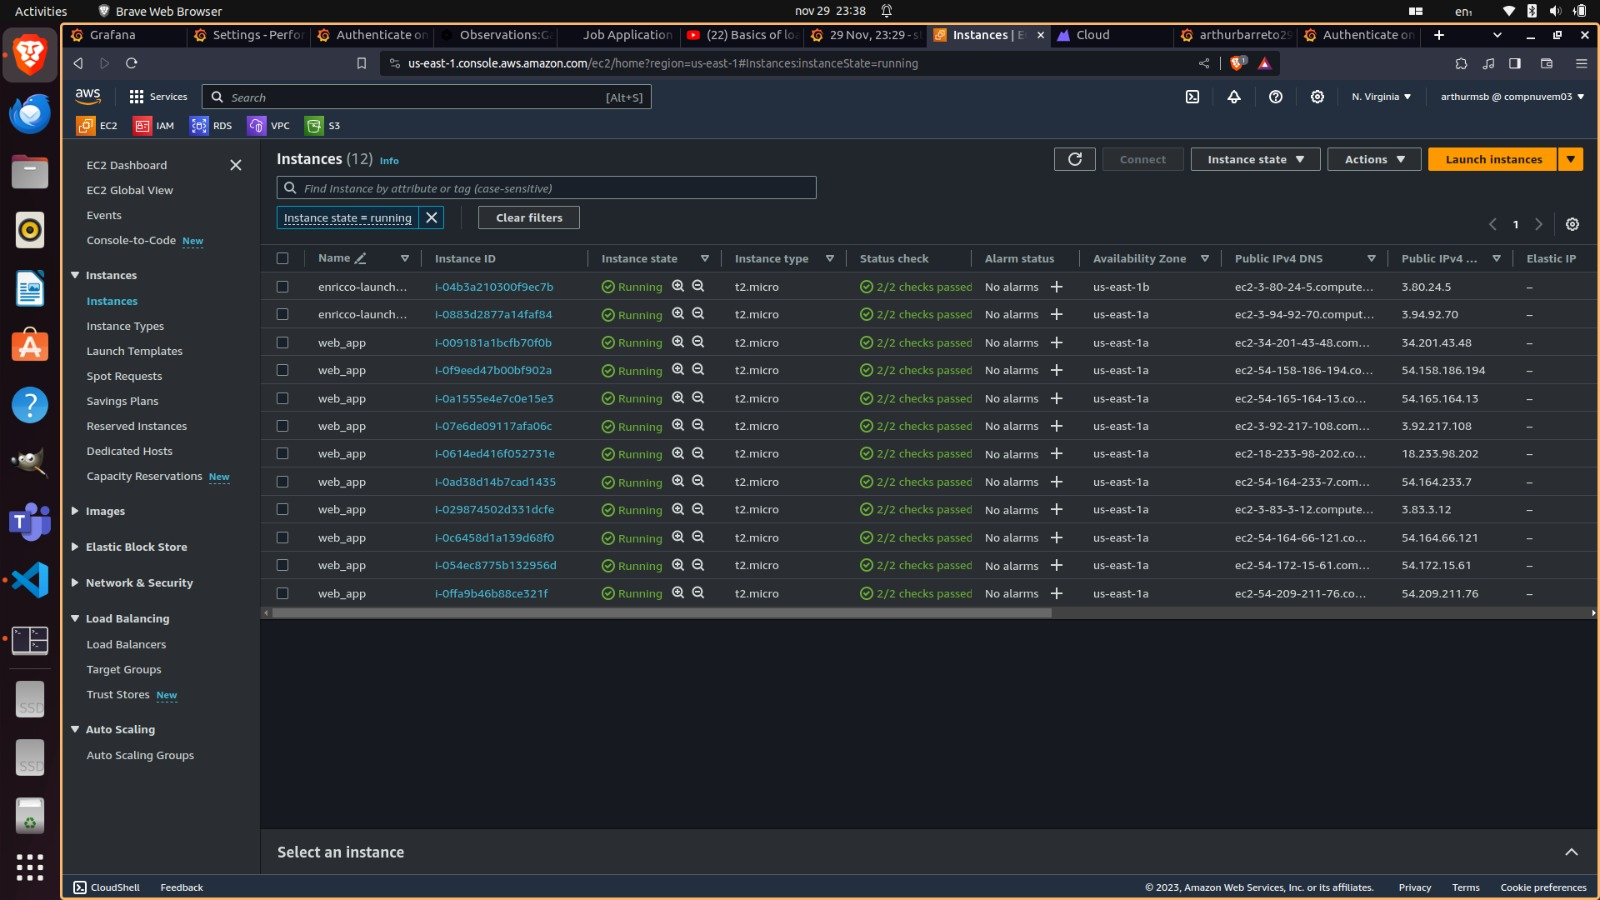
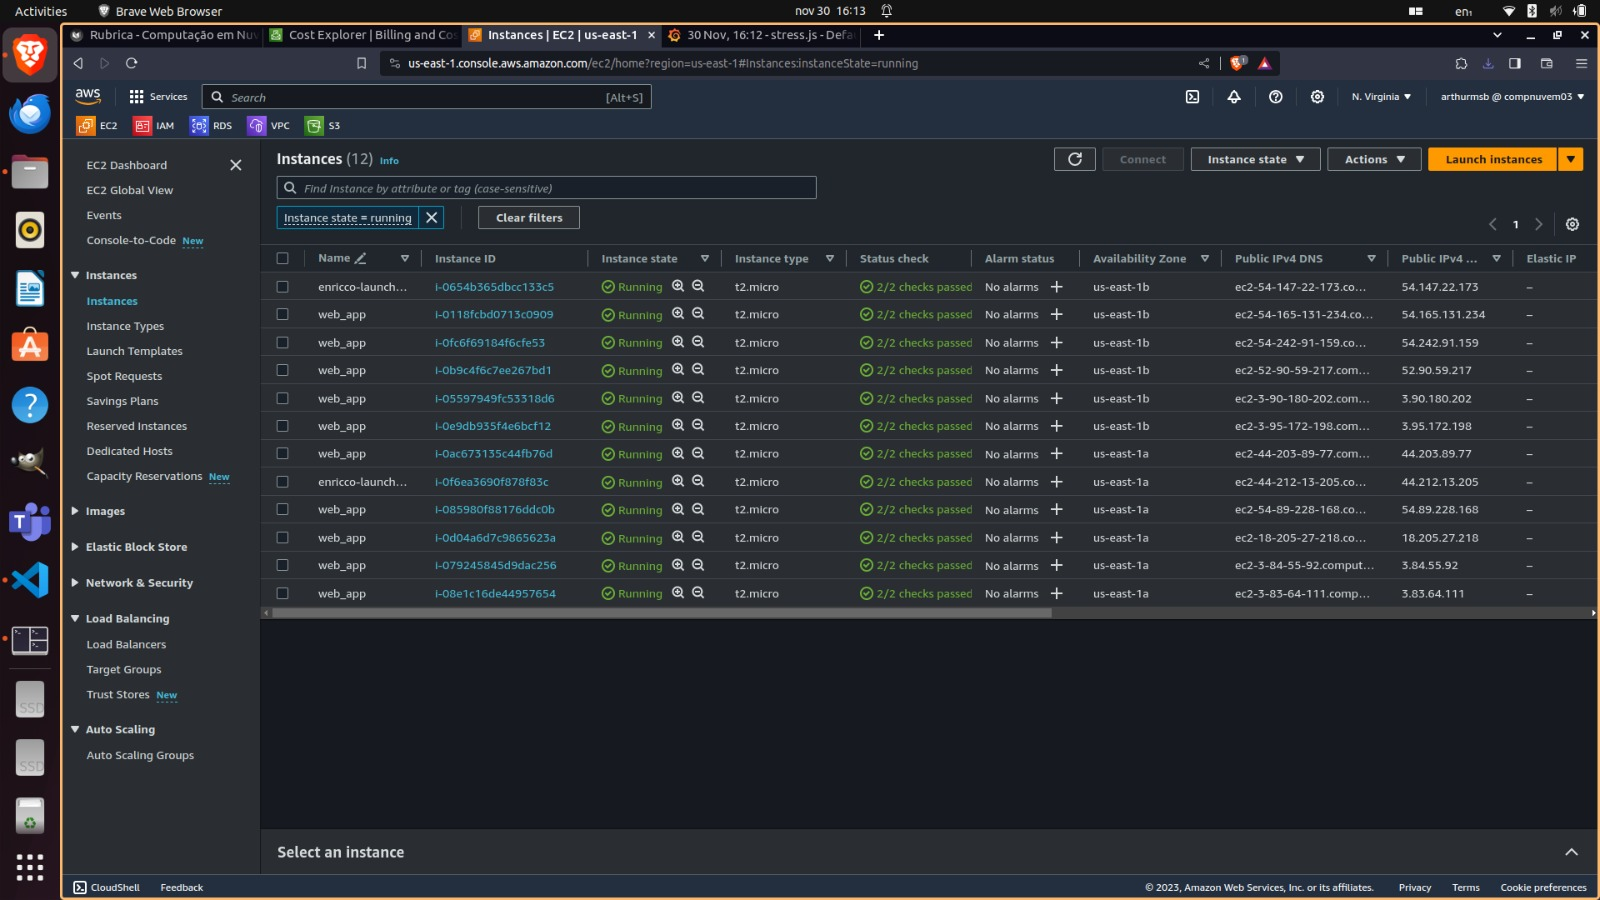
update readme

diff --git a/README.md b/README.md
@@ -91,4 +91,32 @@ In designing the architecture, several key technical decisions were made to opti
 
 These technical decisions collectively aim to strike a balance between performance, cost-effectiveness, and system resilience, aligning with the project's educational focus on understanding fundamental AWS services and best practices in cloud architecture.
 
+## Real Cost - AWS Cost Explorer
 
+Over the past days, I have been actively testing the application and closely monitoring costs through AWS Cost Explorer. The following images showcase the cost usage and predictions from November 1st to November 30th.
+
+### Cost Usage Analysis (November 1st to November 30th)
+
+![Real Cost](./img/used_test.jpeg)
+
+The graph illustrates the cost usage of the infrastructure during the stated period. Notably, components such as RDS, EC2, and EC2(others) significantly contribute to the overall expenses.
+
+### Infrastructure Cost Prediction after Stress Testing
+
+![Real Cost](./img/used_prediction.jpeg)
+
+Following stress testing, the graph predicts the cost for the next month. Noteworthy contributors to the cost, such as RDS and EC2, indicate potential areas for optimization.
+
+### Cost Optimization Strategies
+
+After stress testing the application, it's evident that certain elements contribute more substantially to the infrastructure cost. Consider the following strategies for cost optimization:
+
+- **EC2 Instances:** Evaluate and potentially reduce the number of EC2 instances to optimize costs. Determine the optimal balance between performance and resource utilization.
+
+- **RDS Instance Size:** Consider downsizing the RDS instance if feasible without compromising application performance. Evaluate the required resources for the database workload.
+
+### Estimated Monthly Cost with Stress Testing
+
+In the second image, the estimated cost of the infrastructure post-stress testing is approximately $78.61 per month. The actual cost may fall within the range of $52.52 to $104.70 monthly. This estimation provides insights into potential fluctuations in costs under varying workloads.
+
+These observations and strategies aim to guide further optimizations in the infrastructure, ensuring a cost-effective yet performant cloud architecture.
